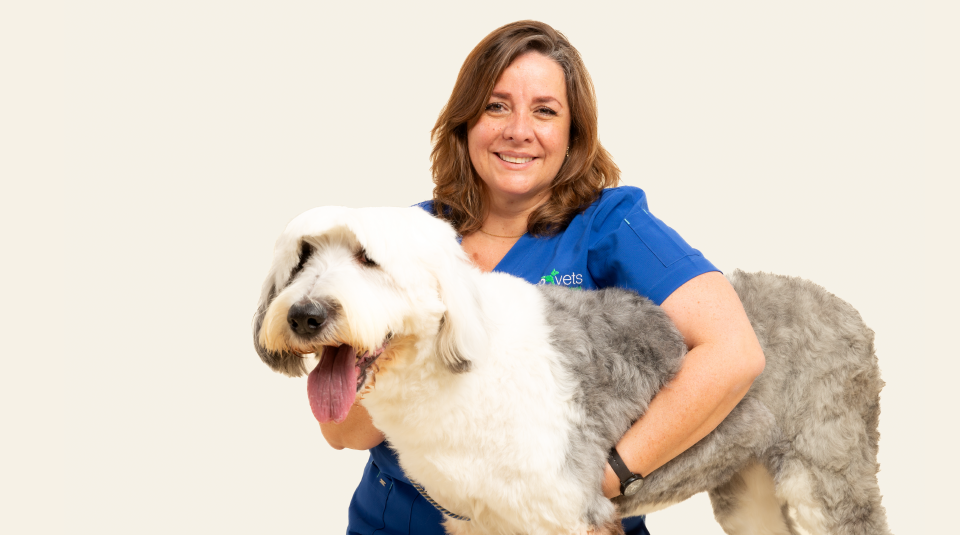
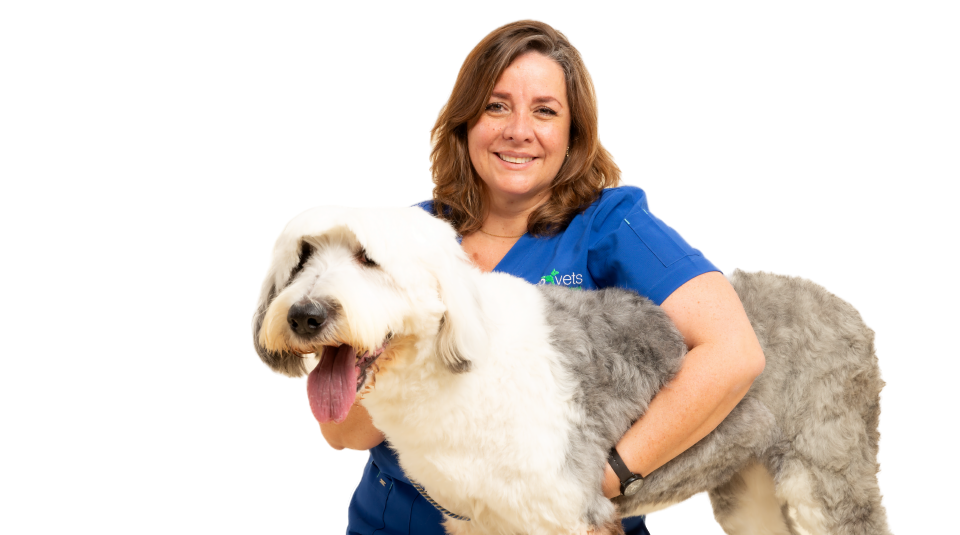
nosotros, consultas

diff --git a/app/consultas/page.tsx b/app/consultas/page.tsx
@@ -6,47 +6,48 @@ import Image from "next/image";
 export default function ConsultasPage() {
   return (
     <div className="flex flex-col w-full items-center bg-[#F5F1E6] flex-grow">
-      <section className="relative w-full max-w-[1920px] [@media(hover:none)_and_(pointer:coarse)]:flex-grow lg:bg-[url('/img/consultas-icon.png')] bg-no-repeat bg-contain xl:[background-size:auto_85%] [background-position:calc(100%+120px)_100%] flex flex-col lg:grid lg:grid-cols-[60%_40%] xl:grid-cols-[58%_42%] lg:grid-rows-[auto_auto]">
+      <section className="relative z-0 w-full max-w-[1920px] [@media(hover:none)_and_(pointer:coarse)]:flex-grow flex flex-col lg:grid lg:grid-cols-[60%_40%] xl:grid-cols-[58%_42%] lg:grid-rows-[auto_auto] pb-[280px] lg:pb-0 overflow-hidden">
+        {/* Background layer */}
+        <div className="absolute inset-0 bg-[url('/img/consultas-bg.png')] bg-cover bg-center z-0" />
+        {/* Icon layer (desktop only) */}
+        <div className="absolute inset-0 hidden lg:block bg-[url('/img/consultas-icon.png')] bottom-0 bg-no-repeat bg-contain xl:[background-size:auto_105%] [background-position:calc(100%+120px)_100%] z-[1]" />
 
-        {/* Left: spans both rows — blur box + button in same w-fit container */}
-        <div className="lg:row-span-2 flex flex-col gap-4 mx-6 mt-10 mb-10 lg:mx-0 lg:mt-0 lg:mb-0 lg:pt-[48px] lg:pb-[48px] lg:pl-[64px] xl:pl-[100px] xl:pt-[48px] xl:pb-[48px] lg:w-fit xl:w-auto lg:gap-[16px] [@media(hover:none)_and_(pointer:coarse)]:!pt-8 [@media(hover:none)_and_(pointer:coarse)]:!gap-6">
-
-          {/* Blur box */}
-          <div className="flex flex-col gap-4 lg:gap-3 items-center lg:items-start text-center lg:text-left bg-white/70 lg:bg-white/60 xl:bg-transparent [@media(hover:none)_and_(pointer:coarse)]:!bg-white/50 p-4 md:p-6 lg:px-5 lg:pt-6 lg:pb-6 xl:p-0 rounded-3xl xl:rounded-none backdrop-blur-md xl:backdrop-blur-none shadow-sm xl:shadow-none transition-all duration-300 w-full lg:w-0 lg:min-w-full xl:w-full xl:min-w-0 [@media(hover:none)_and_(pointer:coarse)]:!gap-10 [@media(hover:none)_and_(pointer:coarse)]:!p-14">
-            <div className="flex flex-col w-full">
-              <div className="flex flex-col gap-3 lg:gap-2 w-full [@media(hover:none)_and_(pointer:coarse)]:!gap-6">
-                <h1 className="text-[#1E2939] font-sans font-extrabold leading-tight text-[clamp(0.95rem,2.6vw,2.25rem)] lg:text-[clamp(0.95rem,1.875vw,1.625rem)] xl:text-[clamp(0.55rem,2.6vw,2.25rem)] [@media(hover:none)_and_(pointer:coarse)]:!text-[2.25rem]">
-                  Agenda Tu Consulta Virtual
-                </h1>
-                <p className="text-[#757575] font-sans font-medium leading-snug text-[clamp(0.65rem,1.5vw,1.1rem)] lg:text-[clamp(0.7rem,1.125vw,0.95rem)] xl:text-[clamp(0.375rem,1.5vw,1.1rem)] [@media(hover:none)_and_(pointer:coarse)]:!text-xl">
-                  Tu mascota merece atención profesional sin salir de casa. Ponte en contacto con nosotros para coordinar tu consulta virtual.
-                </p>
-              </div>
-            </div>
-            <div className="flex flex-col gap-2 lg:gap-2 [@media(hover:none)_and_(pointer:coarse)]:!gap-5">
-              <h3 className="text-[#1E2939] font-sans font-bold text-[clamp(0.65rem,1.35vw,1.1rem)] lg:text-[clamp(0.7rem,1.03vw,0.85rem)] xl:text-[clamp(0.375rem,1.35vw,1.1rem)] [@media(hover:none)_and_(pointer:coarse)]:!text-xl">
-                Recomendaciones:
-              </h3>
-              <ul className="flex flex-col gap-1.5 lg:gap-1.5 list-none p-0 [@media(hover:none)_and_(pointer:coarse)]:!gap-4">
-                <li className="text-[#757575] font-sans font-medium leading-relaxed text-[clamp(0.55rem,1.1vw,0.95rem)] lg:text-[clamp(0.625rem,0.9375vw,0.8125rem)] xl:text-[clamp(0.3rem,1.1vw,0.95rem)] [@media(hover:none)_and_(pointer:coarse)]:!text-lg">
-                  Describe los síntomas con el mayor detalle posible.
-                </li>
-                <li className="text-[#757575] font-sans font-medium leading-relaxed text-[clamp(0.55rem,1.1vw,0.95rem)] lg:text-[clamp(0.625rem,0.9375vw,0.8125rem)] xl:text-[clamp(0.3rem,1.1vw,0.95rem)] [@media(hover:none)_and_(pointer:coarse)]:!text-lg">
-                  Mantente pendiente de tu WhatsApp para la confirmación de tu cita.
-                </li>
-                <li className="text-[#757575] font-sans font-medium leading-relaxed text-[clamp(0.55rem,1.1vw,0.95rem)] lg:text-[clamp(0.625rem,0.9375vw,0.8125rem)] xl:text-[clamp(0.3rem,1.1vw,0.95rem)] [@media(hover:none)_and_(pointer:coarse)]:!text-lg">
-                  Ten fotos o videos listos para compartir durante la consulta.
-                </li>
-              </ul>
-            </div>
+        {/* Top: Heading + subtext — spans full width */}
+        <div className="relative z-[2] flex flex-col justify-center mx-6 mt-10 lg:mx-0 lg:mt-0 lg:pt-[48px] lg:pb-[24px] lg:pl-[64px] xl:pl-[100px] xl:pt-[48px] lg:col-span-2 [@media(hover:none)_and_(pointer:coarse)]:!pt-8">
+          <div className="flex flex-col gap-3 lg:gap-2 items-center lg:items-start text-center lg:text-left [@media(hover:none)_and_(pointer:coarse)]:!gap-6">
+            <h1 className="text-[#1E2939] font-sans font-extrabold leading-tight text-[clamp(0.95rem,2.6vw,2.25rem)] lg:text-[clamp(0.95rem,1.875vw,1.625rem)] xl:text-[clamp(0.55rem,2.6vw,2.25rem)] [@media(hover:none)_and_(pointer:coarse)]:!text-[2.25rem]">
+              Agenda Tu Consulta Virtual
+            </h1>
+            <p className="text-[#757575] font-sans font-medium leading-snug text-[clamp(0.65rem,1.5vw,1.1rem)] lg:text-[clamp(0.7rem,1.125vw,0.95rem)] xl:text-[clamp(0.375rem,1.5vw,1.1rem)] [@media(hover:none)_and_(pointer:coarse)]:!text-xl">
+              Tu mascota merece atención profesional sin salir de casa.<br className="hidden xl:block" /> Ponte en contacto con nosotros para coordinar tu consulta virtual.
+            </p>
           </div>
+        </div>
 
+        {/* Bottom-left: Recomendaciones + WhatsApp button */}
+        <div className="relative z-[2] flex flex-col gap-4 mx-6 mb-10 lg:mx-0 lg:mb-0 lg:pt-[24px] lg:pb-[48px] lg:pl-[64px] xl:pl-[100px] xl:pb-[48px] lg:gap-[16px] lg:scale-90 xl:scale-100 lg:opacity-80 xl:opacity-100 lg:origin-bottom-left [@media(hover:none)_and_(pointer:coarse)]:!gap-6">
+          <div className="flex flex-col gap-2 items-center lg:items-start text-center lg:text-left bg-white/70 lg:bg-transparent [@media(hover:none)_and_(pointer:coarse)_and_(max-width:1023px)]:!bg-white/50 p-4 md:p-6 lg:p-0 rounded-3xl lg:rounded-none backdrop-blur-md lg:backdrop-blur-none shadow-sm lg:shadow-none transition-all duration-300 lg:-translate-y-25 xl:translate-y-0 [@media(hover:none)_and_(pointer:coarse)]:!gap-5 [@media(hover:none)_and_(pointer:coarse)_and_(max-width:1023px)]:!p-14">
+            <h3 className="text-[#1E2939] font-sans font-bold text-[clamp(0.65rem,1.35vw,1.1rem)] lg:text-[clamp(0.7rem,1.03vw,0.85rem)] xl:text-[clamp(0.375rem,1.35vw,1.1rem)] [@media(hover:none)_and_(pointer:coarse)]:!text-xl">
+              Recomendaciones:
+            </h3>
+            <ul className="flex flex-col gap-1.5 list-none p-0 [@media(hover:none)_and_(pointer:coarse)]:!gap-4">
+              <li className="text-[#757575] font-sans font-medium leading-relaxed text-[clamp(0.55rem,1.1vw,0.95rem)] lg:text-[clamp(0.625rem,0.9375vw,0.8125rem)] xl:text-[clamp(0.3rem,1.1vw,0.95rem)] [@media(hover:none)_and_(pointer:coarse)]:!text-lg">
+                Describe los síntomas con el mayor detalle posible.
+              </li>
+              <li className="text-[#757575] font-sans font-medium leading-relaxed text-[clamp(0.55rem,1.1vw,0.95rem)] lg:text-[clamp(0.625rem,0.9375vw,0.8125rem)] xl:text-[clamp(0.3rem,1.1vw,0.95rem)] [@media(hover:none)_and_(pointer:coarse)]:!text-lg">
+                Mantente pendiente de tu WhatsApp para la confirmación de tu cita.
+              </li>
+              <li className="text-[#757575] font-sans font-medium leading-relaxed text-[clamp(0.55rem,1.1vw,0.95rem)] lg:text-[clamp(0.625rem,0.9375vw,0.8125rem)] xl:text-[clamp(0.3rem,1.1vw,0.95rem)] [@media(hover:none)_and_(pointer:coarse)]:!text-lg">
+                Ten fotos o videos listos para compartir durante la consulta.
+              </li>
+            </ul>
+          </div>
           {/* WhatsApp button */}
           <a
             href="https://wa.me/522282579865"
             target="_blank"
             rel="noopener noreferrer"
-            className="flex items-center justify-center gap-3 bg-[#25D366] text-white font-sans font-bold text-lg md:text-xl xl:text-[clamp(1rem,1.8vw,1.5rem)] px-10 py-4 rounded-full hover:bg-[#128C7E] transition-all shadow-lg shadow-[#25D366]/20 border-none cursor-pointer group flex-shrink-0 xl:self-start"
+            className="flex items-center justify-center gap-3 bg-[#25D366] text-white font-sans font-bold text-lg md:text-xl xl:text-[clamp(1rem,1.8vw,1.5rem)] px-10 py-4 rounded-full hover:bg-[#128C7E] transition-all shadow-lg shadow-[#25D366]/20 border-none cursor-pointer group flex-shrink-0 lg:self-start lg:mt-auto"
           >
             <Image
               src="/img/whatsapp_icon.svg"
@@ -60,11 +61,8 @@ export default function ConsultasPage() {
           </a>
         </div>
 
-        {/* Top-right: empty (background image shows through) */}
-        <div className="hidden lg:block" />
-
         {/* Bottom-right: Cedula */}
-        <div className="hidden lg:flex items-end justify-end pr-[4%] pb-[48px] pt-[16px]">
+        <div className="relative z-[2] hidden lg:flex items-end justify-end pr-[4%] pb-[48px] pt-[16px]">
           <div className="bg-[#FFFFFF99] px-[16px] py-[12px] flex flex-col gap-[10px] rounded-md shadow-sm backdrop-blur-sm w-max shrink-0">
             <h2 className="text-[#1E2939] font-sans font-extrabold text-xl lg:text-[24px] leading-none">
               Dra. Gabriela Mateos Trigos
@@ -81,12 +79,13 @@ export default function ConsultasPage() {
         </div>
 
         {/* Mobile-only image */}
-        <div className="lg:hidden relative w-full aspect-square overflow-hidden">
+        <div className="absolute -bottom-4 right-0 z-[2] lg:hidden w-full max-w-[2000px] pointer-events-none scale-[1.3] origin-bottom">
           <Image
             src="/img/consultas-icon.png"
             alt="Consulta veterinaria virtual"
-            fill
-            className="object-cover object-top"
+            width={400}
+            height={400}
+            className="object-contain object-bottom w-full h-auto"
           />
         </div>
 

diff --git a/app/nosotros/page.tsx b/app/nosotros/page.tsx
@@ -4,15 +4,19 @@ export default function Nosotros() {
   return (
     <div className="flex flex-col w-full items-center bg-white space-y-8 md:space-y-10 lg:space-y-12 xl:space-y-14 py-8 md:py-10 lg:py-12">
       {/* Frame 1: Hero Section */}
-      <section className="relative w-full max-w-[1920px] min-h-[300px] md:min-h-[380px] lg:min-h-[440px] xl:h-[478px] flex items-center justify-center bg-[#F5F1E3CC] bg-cover bg-center py-12 md:py-14 lg:py-16 xl:py-0">
-        <div className="absolute inset-0 bg-black/10 md:bg-transparent" />
-        <div className="relative w-full max-w-[1054px] px-6 flex flex-col items-center justify-center text-center gap-4 md:gap-5 lg:gap-6 xl:gap-1">
+      <section className="relative w-full max-w-[1920px] min-h-[300px] md:min-h-[380px] lg:min-h-[440px] xl:h-[478px] flex flex-col md:flex-row items-center bg-[#F5F1E3CC] bg-[url('/img/nosotros-topframe-bg.png')] bg-cover bg-center py-12 md:py-14 lg:py-16 xl:py-0 overflow-hidden">
+        {/* Left: Text content */}
+        <div className="relative z-10 flex flex-col justify-center gap-4 md:gap-5 lg:gap-6 xl:gap-3 w-full md:w-1/2 px-6 md:px-10 lg:px-16 xl:px-[80px] text-center md:text-left">
           <h1 className="text-[#1E2939] font-sans font-extrabold text-3xl md:text-4xl lg:text-5xl xl:text-[48px] leading-tight xl:leading-[1.0]">
             ¿Quiénes Somos?
           </h1>
-          <p className="text-[#1E2939] font-sans font-medium text-base md:text-lg lg:text-xl xl:text-[24px] leading-relaxed xl:leading-[1.4] max-w-3xl">
+          <p className="text-[#1E2939] font-sans font-medium text-base md:text-lg lg:text-xl xl:text-[24px] leading-relaxed xl:leading-[1.4]">
             Expertos en soluciones ortopédicas para mascotas. Somos una empresa mexicana dedicada al diseño y fabricación de productos ortopédicos para animales de compañía. Contamos con el respaldo y la supervisión directa de especialistas en terapia física y rehabilitación veterinaria.
           </p>
+        </div>
+        {/* Right: Image */}
+        <div className="relative z-10 flex w-full md:w-1/2 items-center justify-center mt-6 md:mt-0 px-6 md:px-0">
+          <img src="/img/nosotros-topframe-img.png" alt="Ortovets equipo" className="w-full h-auto object-contain" />
         </div>
       </section>
 
